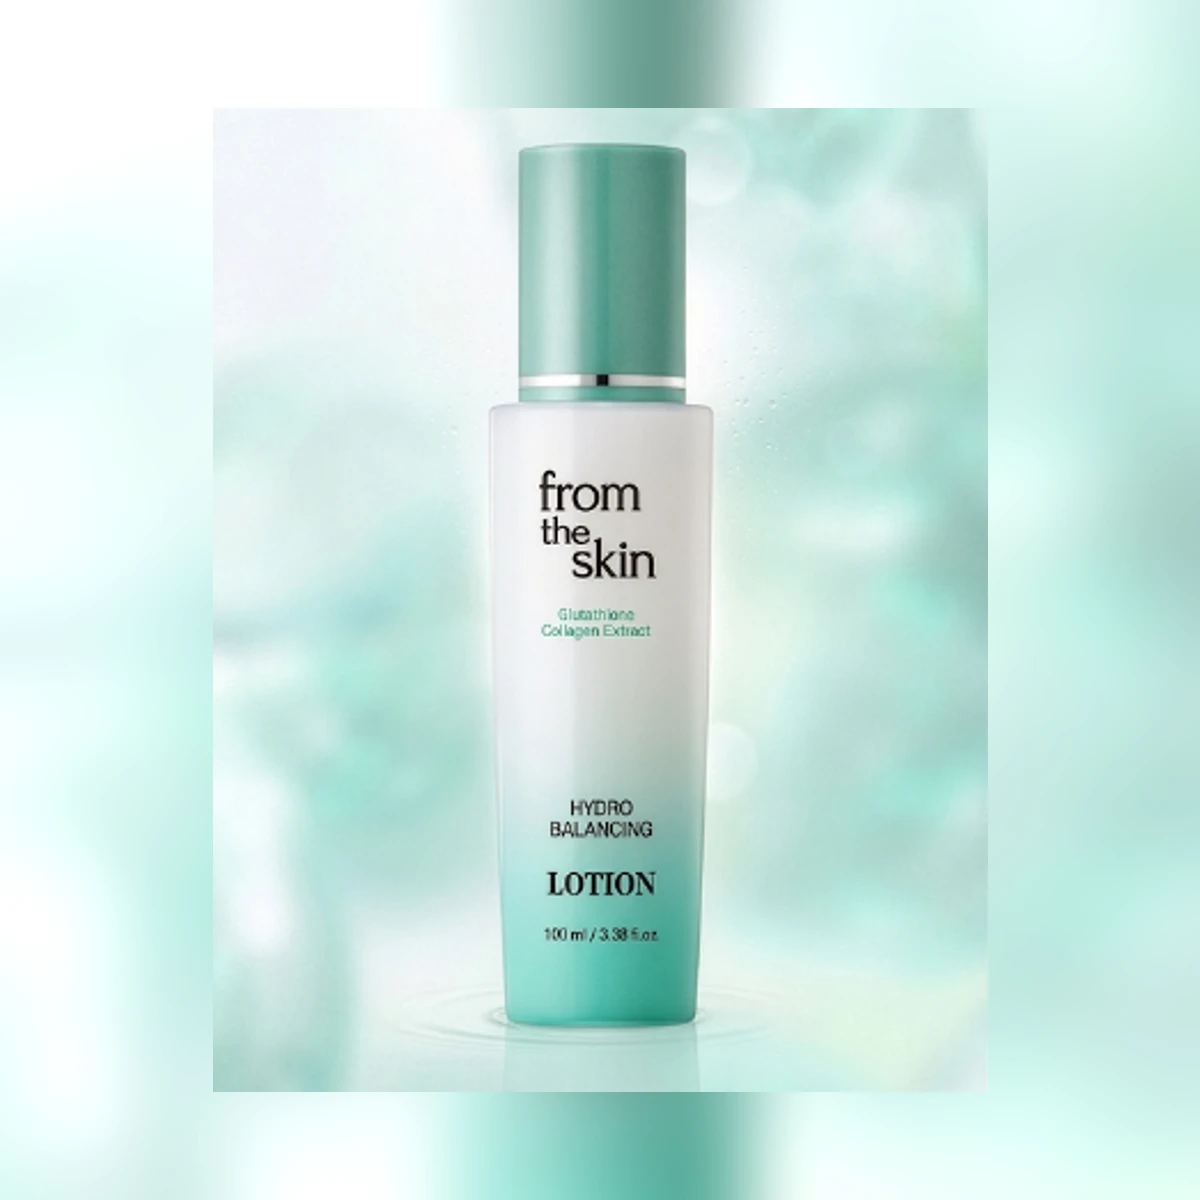
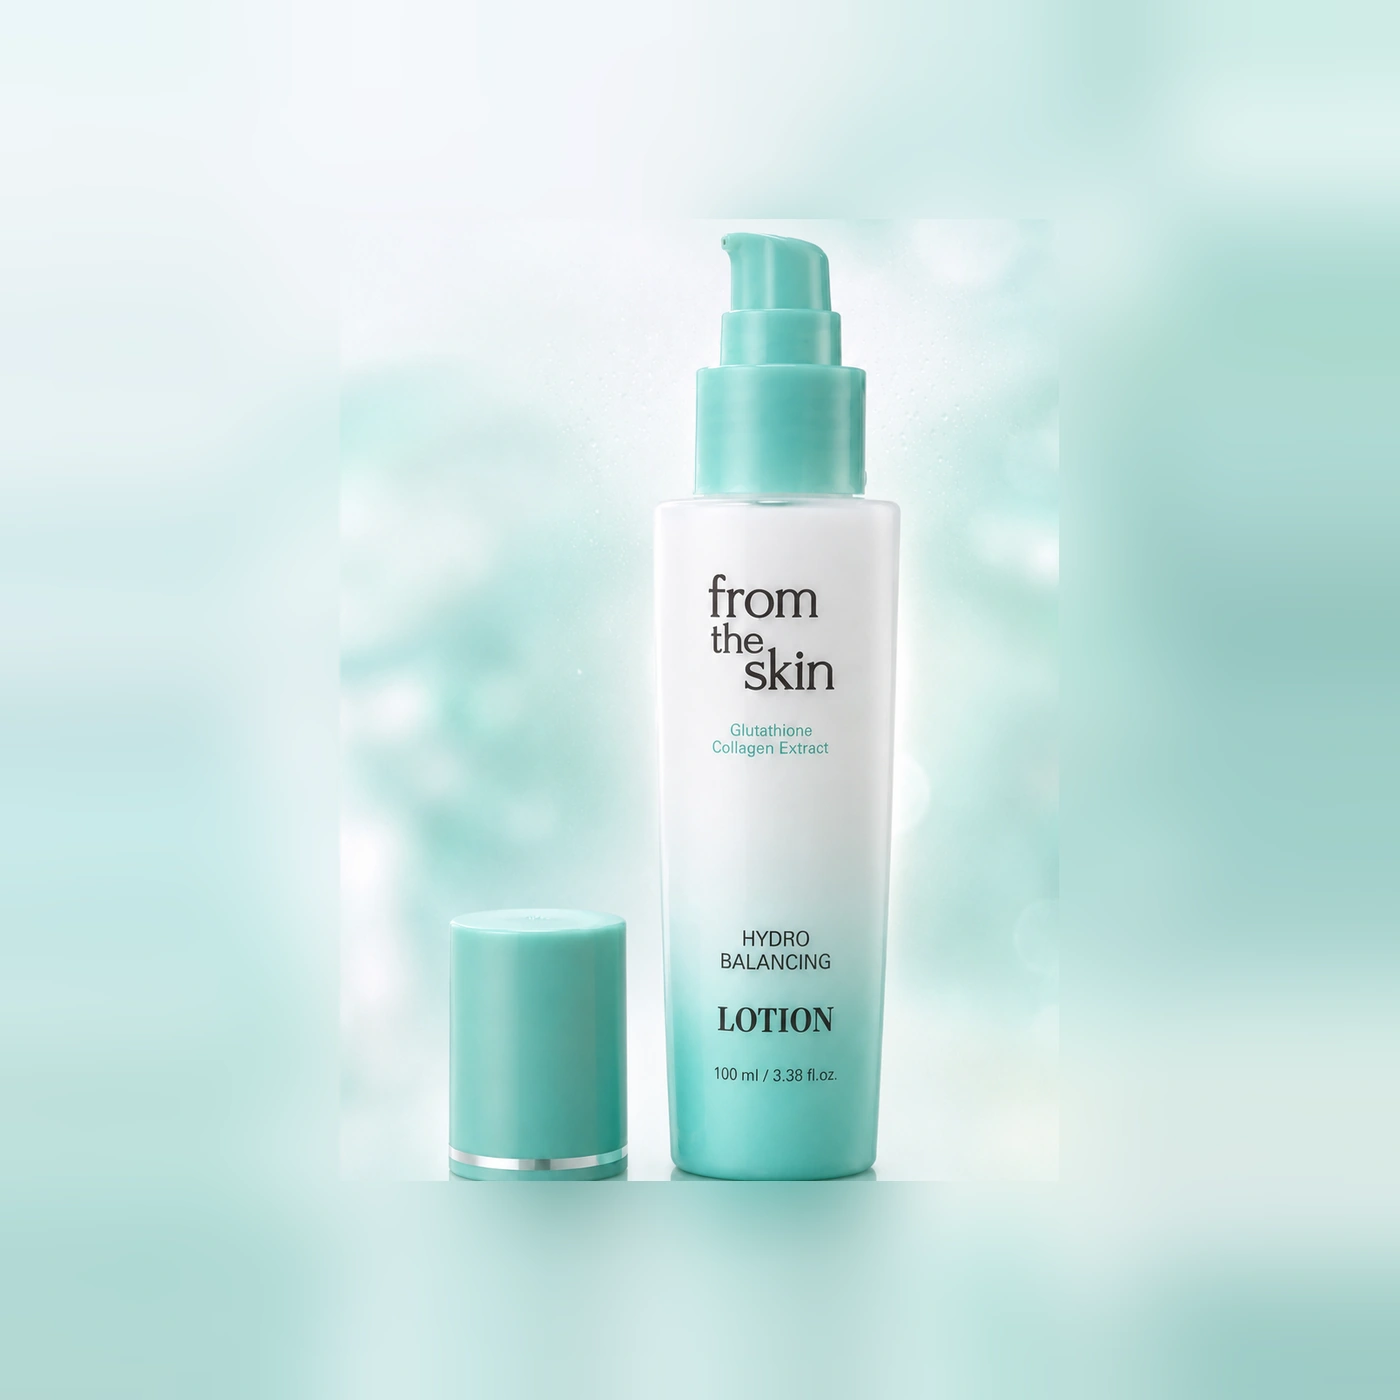
化粧水・乳液の画像を高画質版に差し替え、乳液ページにポンプ容器の説明を追加
- product-skin.webp: NEW SKIN③(1086px)由来の高精細版に差し替え（1400px/q94）
- product-lotion.webp: NEW LOTION④のポンプが見える写真に差し替え（1400px/q94）
- glucola-lotion.html: 「容器がポンプ式に変わりました」セクションを追加

diff --git a/products/glucola-lotion.html b/products/glucola-lotion.html
@@ -361,6 +361,12 @@
     </section>
 
     <section class="article-section">
+      <h2>容器がポンプ式に変わりました</h2>
+      <p>リニューアルにともない、これまでのキャップ式のボトルから、ポンプ式（キャップ付き）の容器に変わりました。片手で押すだけで取り出せ、1回のプッシュで出る量がほぼ一定です。ポンプから直接出せるため、容器の口に手が触れにくい構造です。</p>
+      <p>価格は¥3,800（税込）で据え置きです。</p>
+    </section>
+
+    <section class="article-section">
       <h2>商品情報</h2>
       <table class="spec-table">
         <tr><th>ブランド</th><td>from the skin（フロムザスキン）</td></tr>
